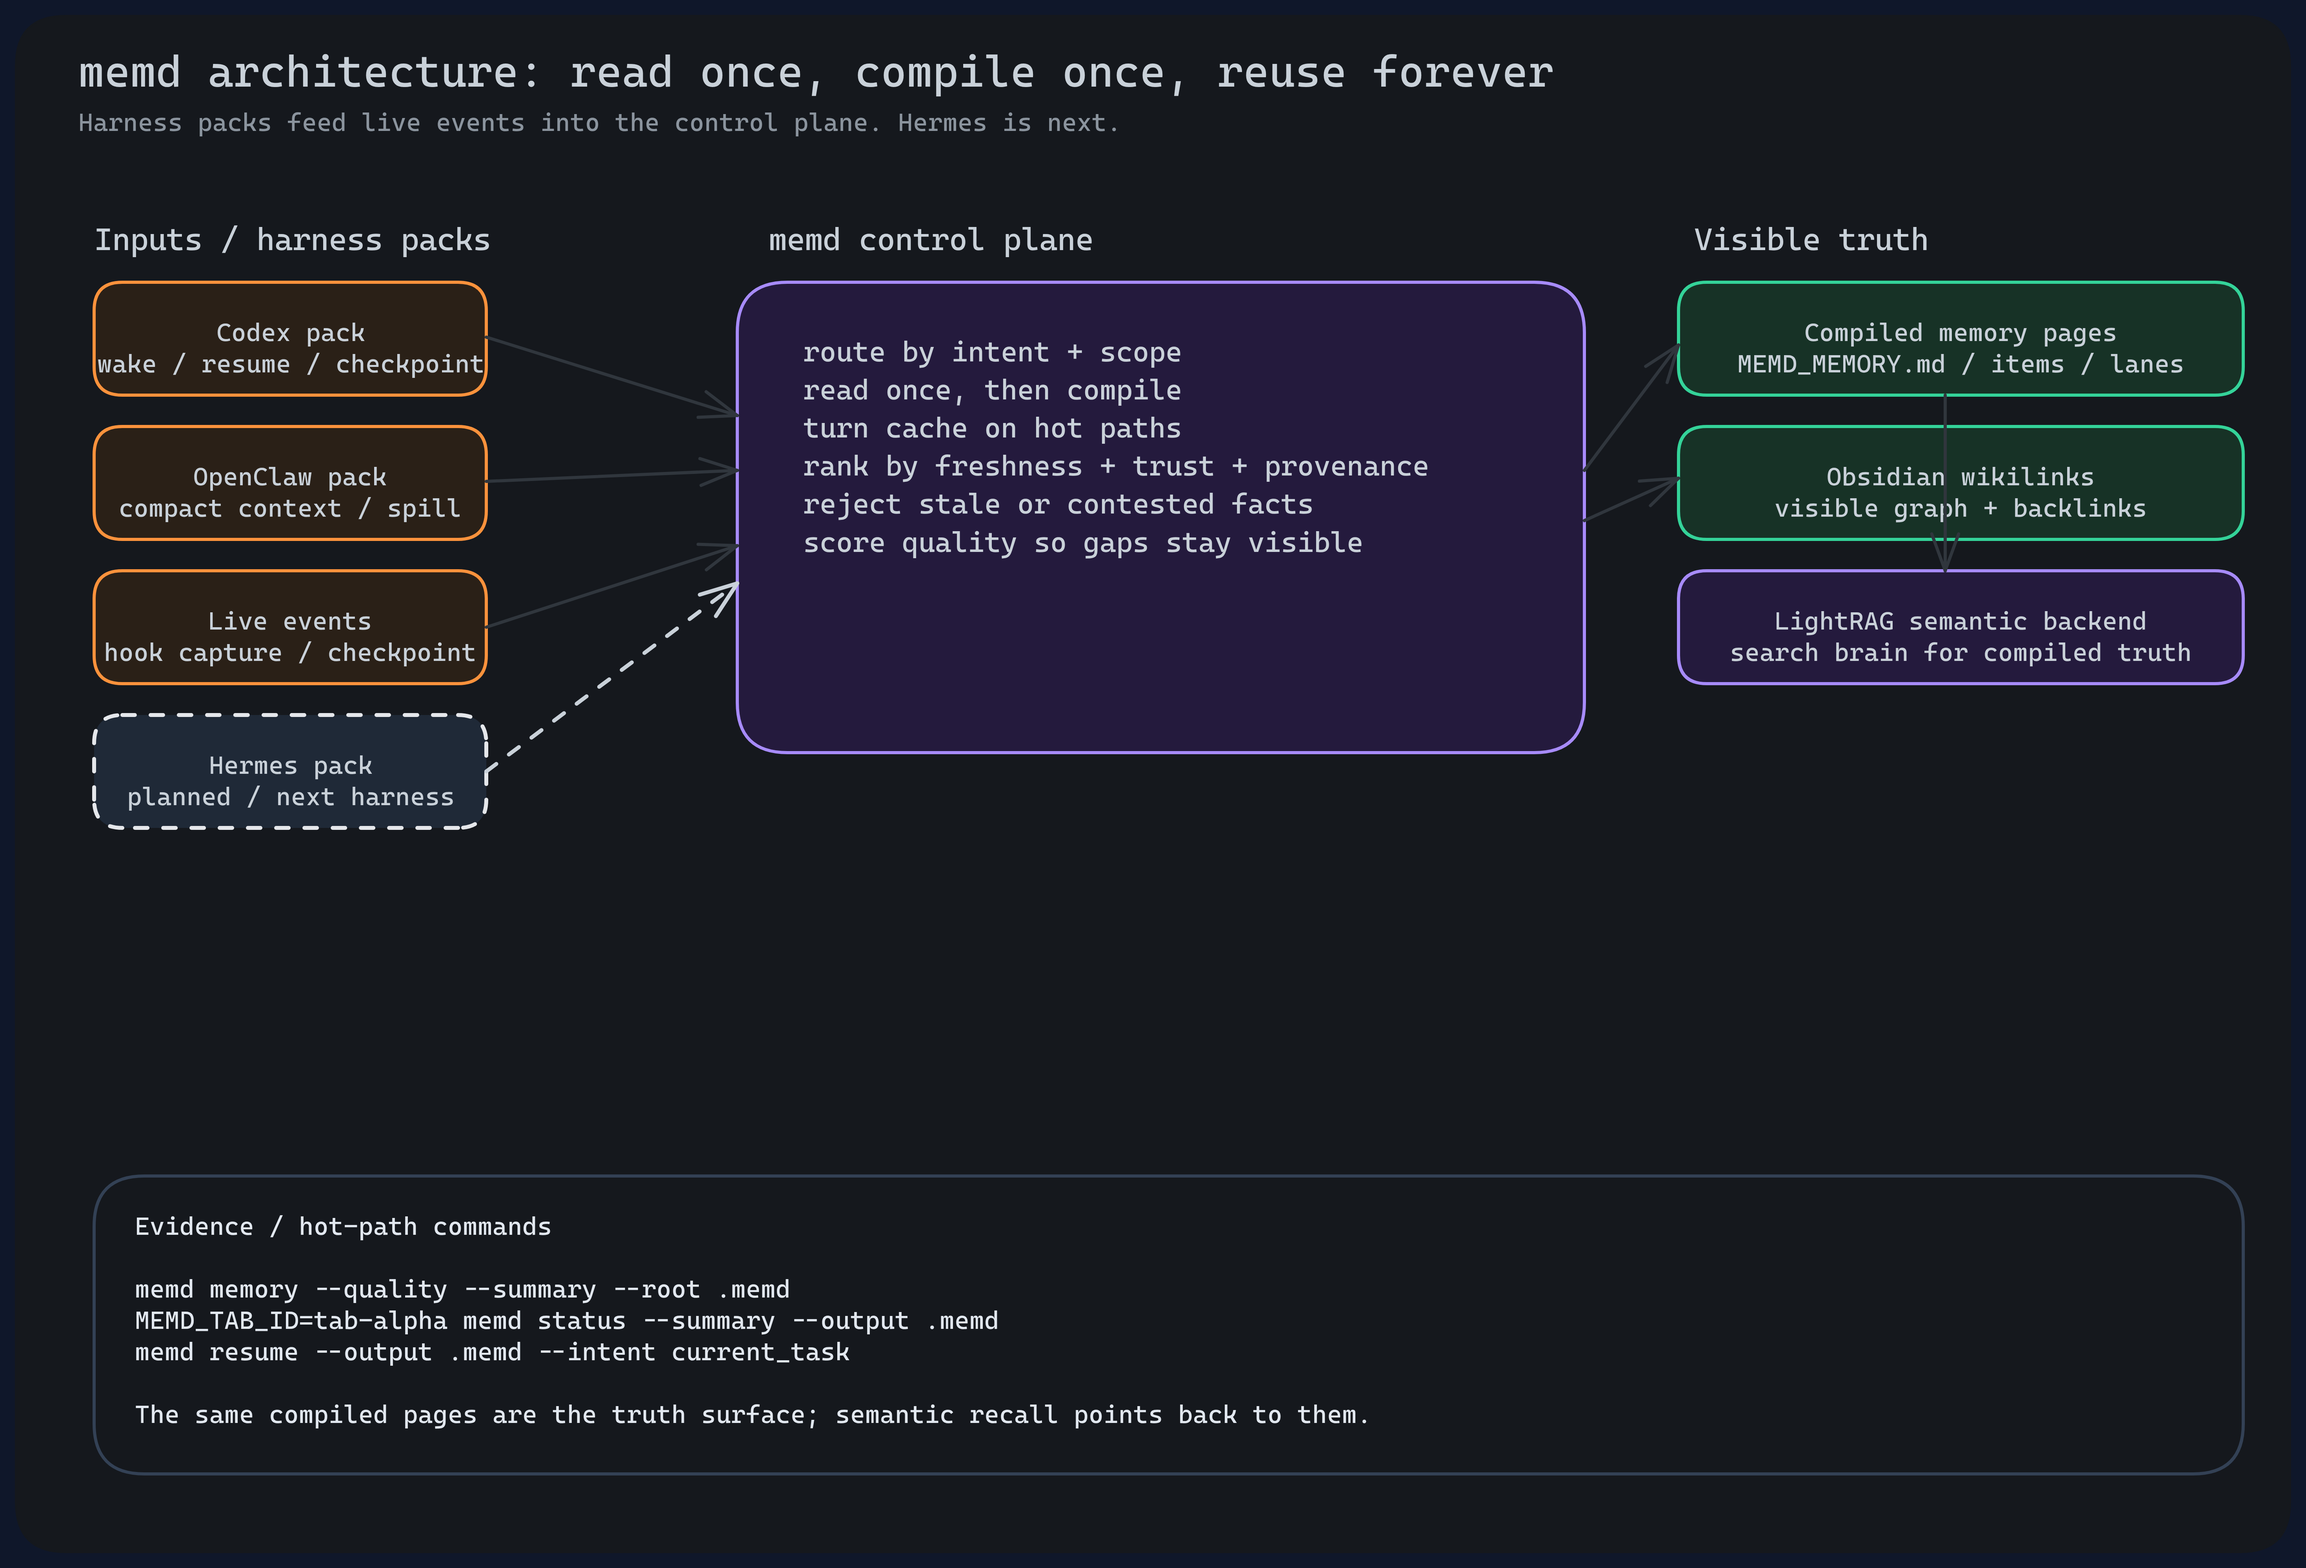
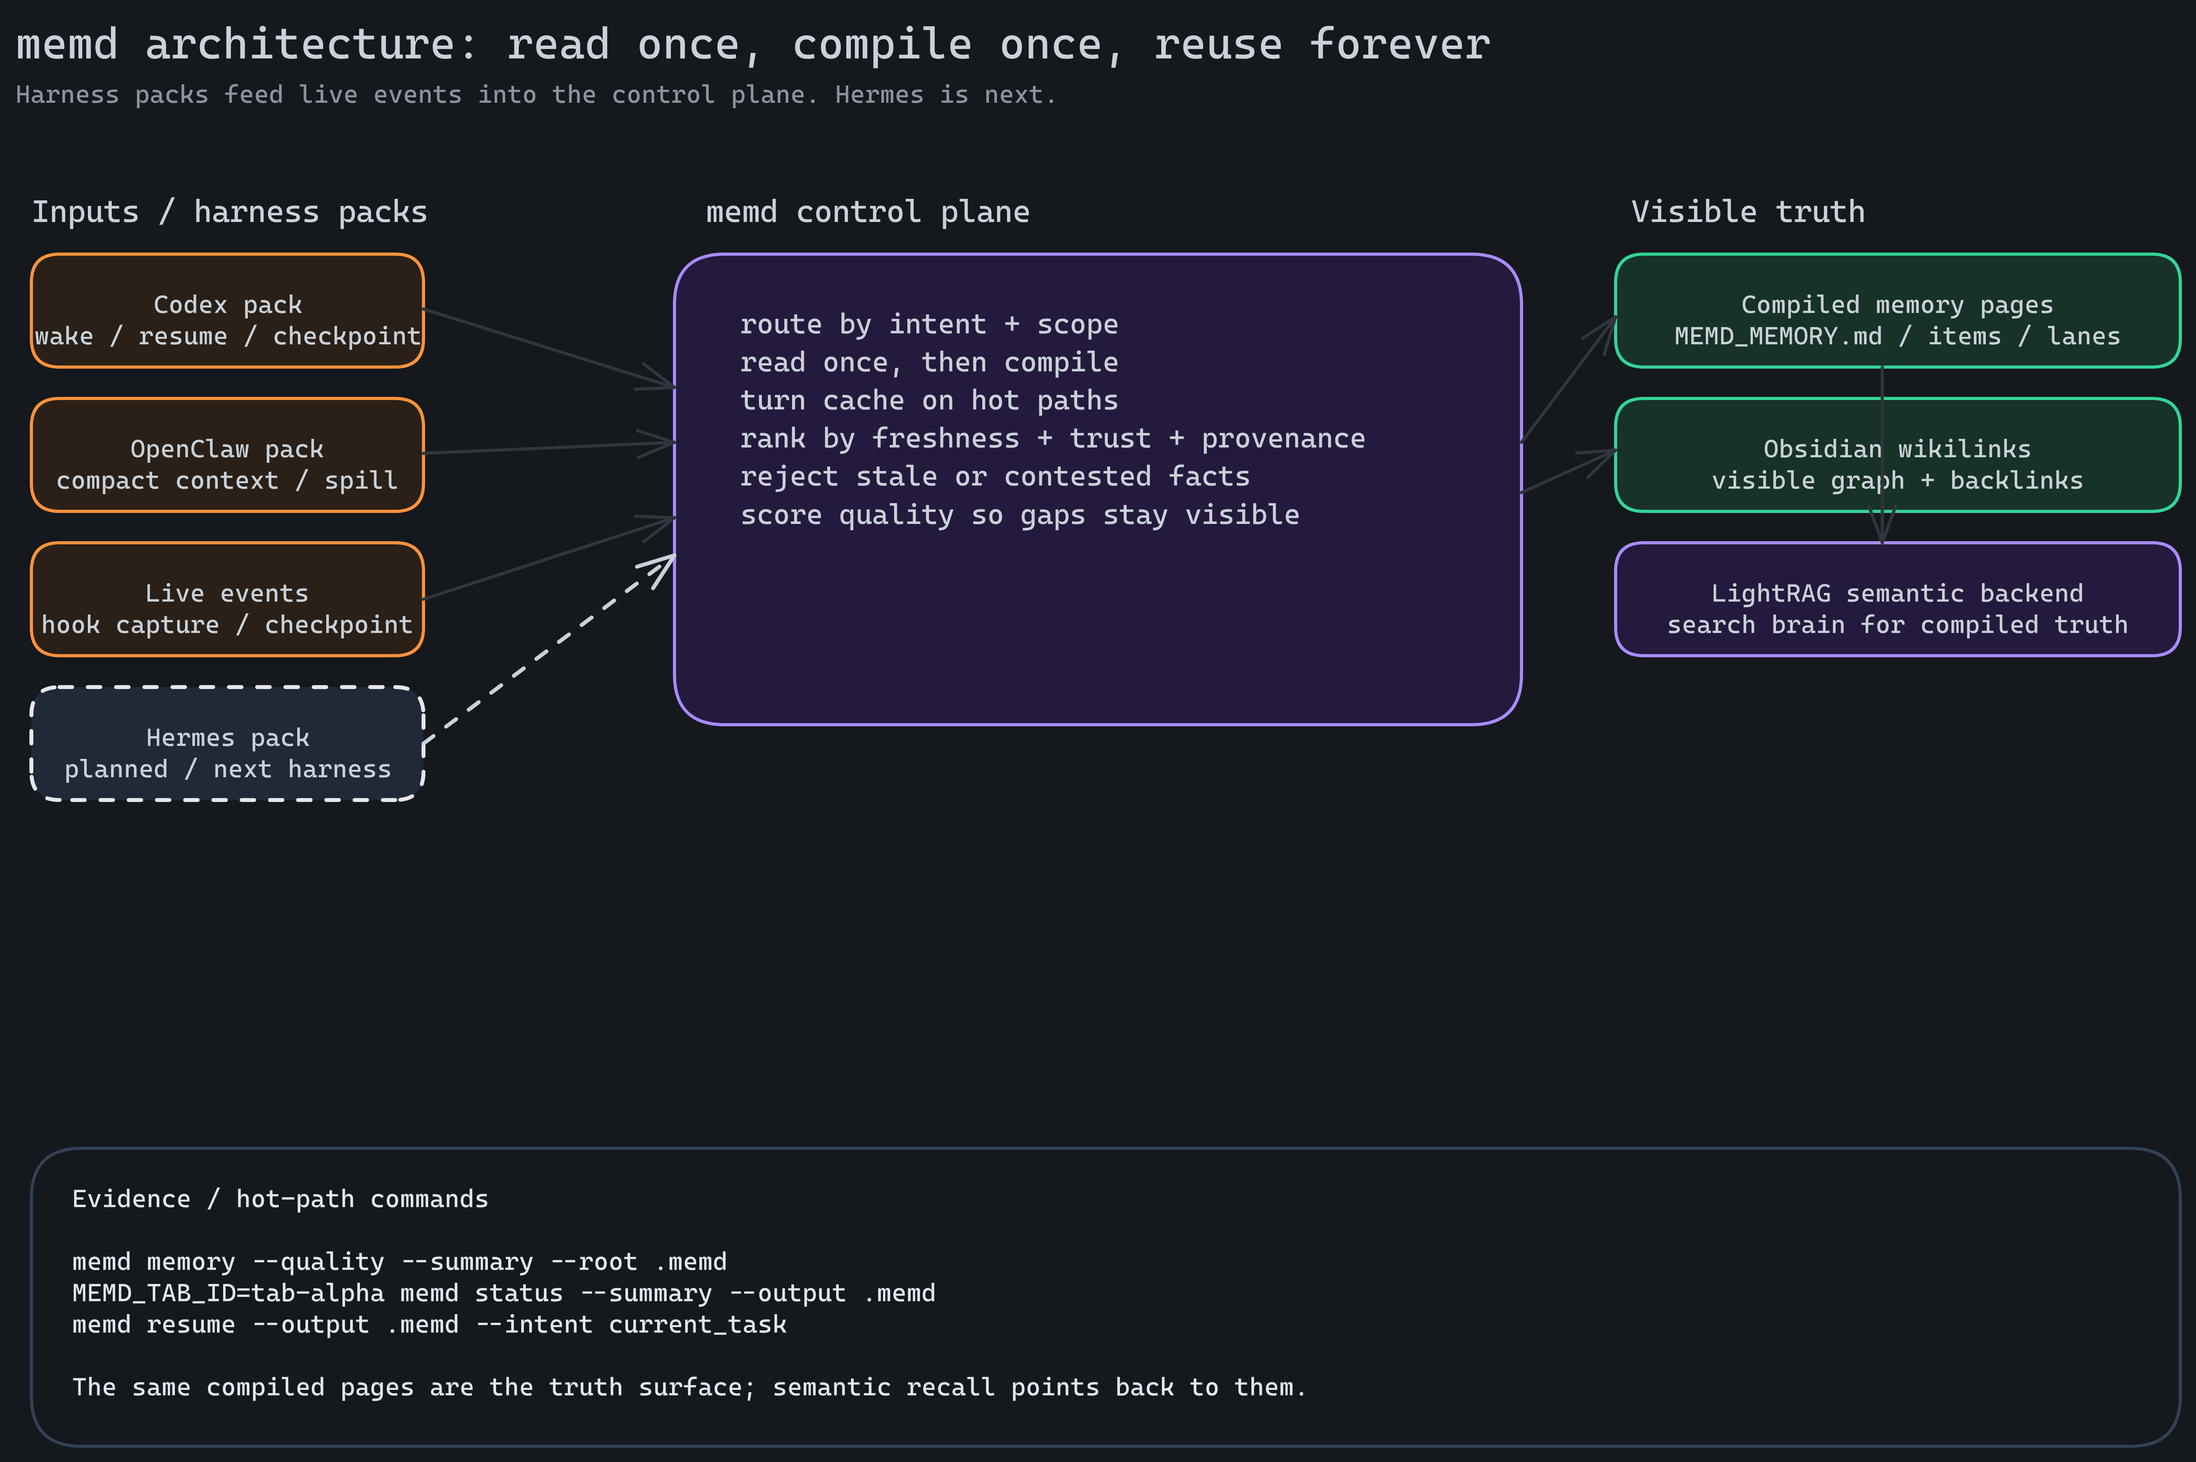
docs: make architecture image full width

diff --git a/README.md b/README.md
@@ -39,7 +39,7 @@ If you are using Codex, `memd` can load or reload the current bundle for you.
 
 ## Architecture
 
-![memd architecture](./docs/architecture-preview.png)
+<img src="./docs/architecture-preview.png" alt="memd architecture" width="100%" />
 
 See the editable source at [docs/architecture.excalidraw](./docs/architecture.excalidraw).
 
